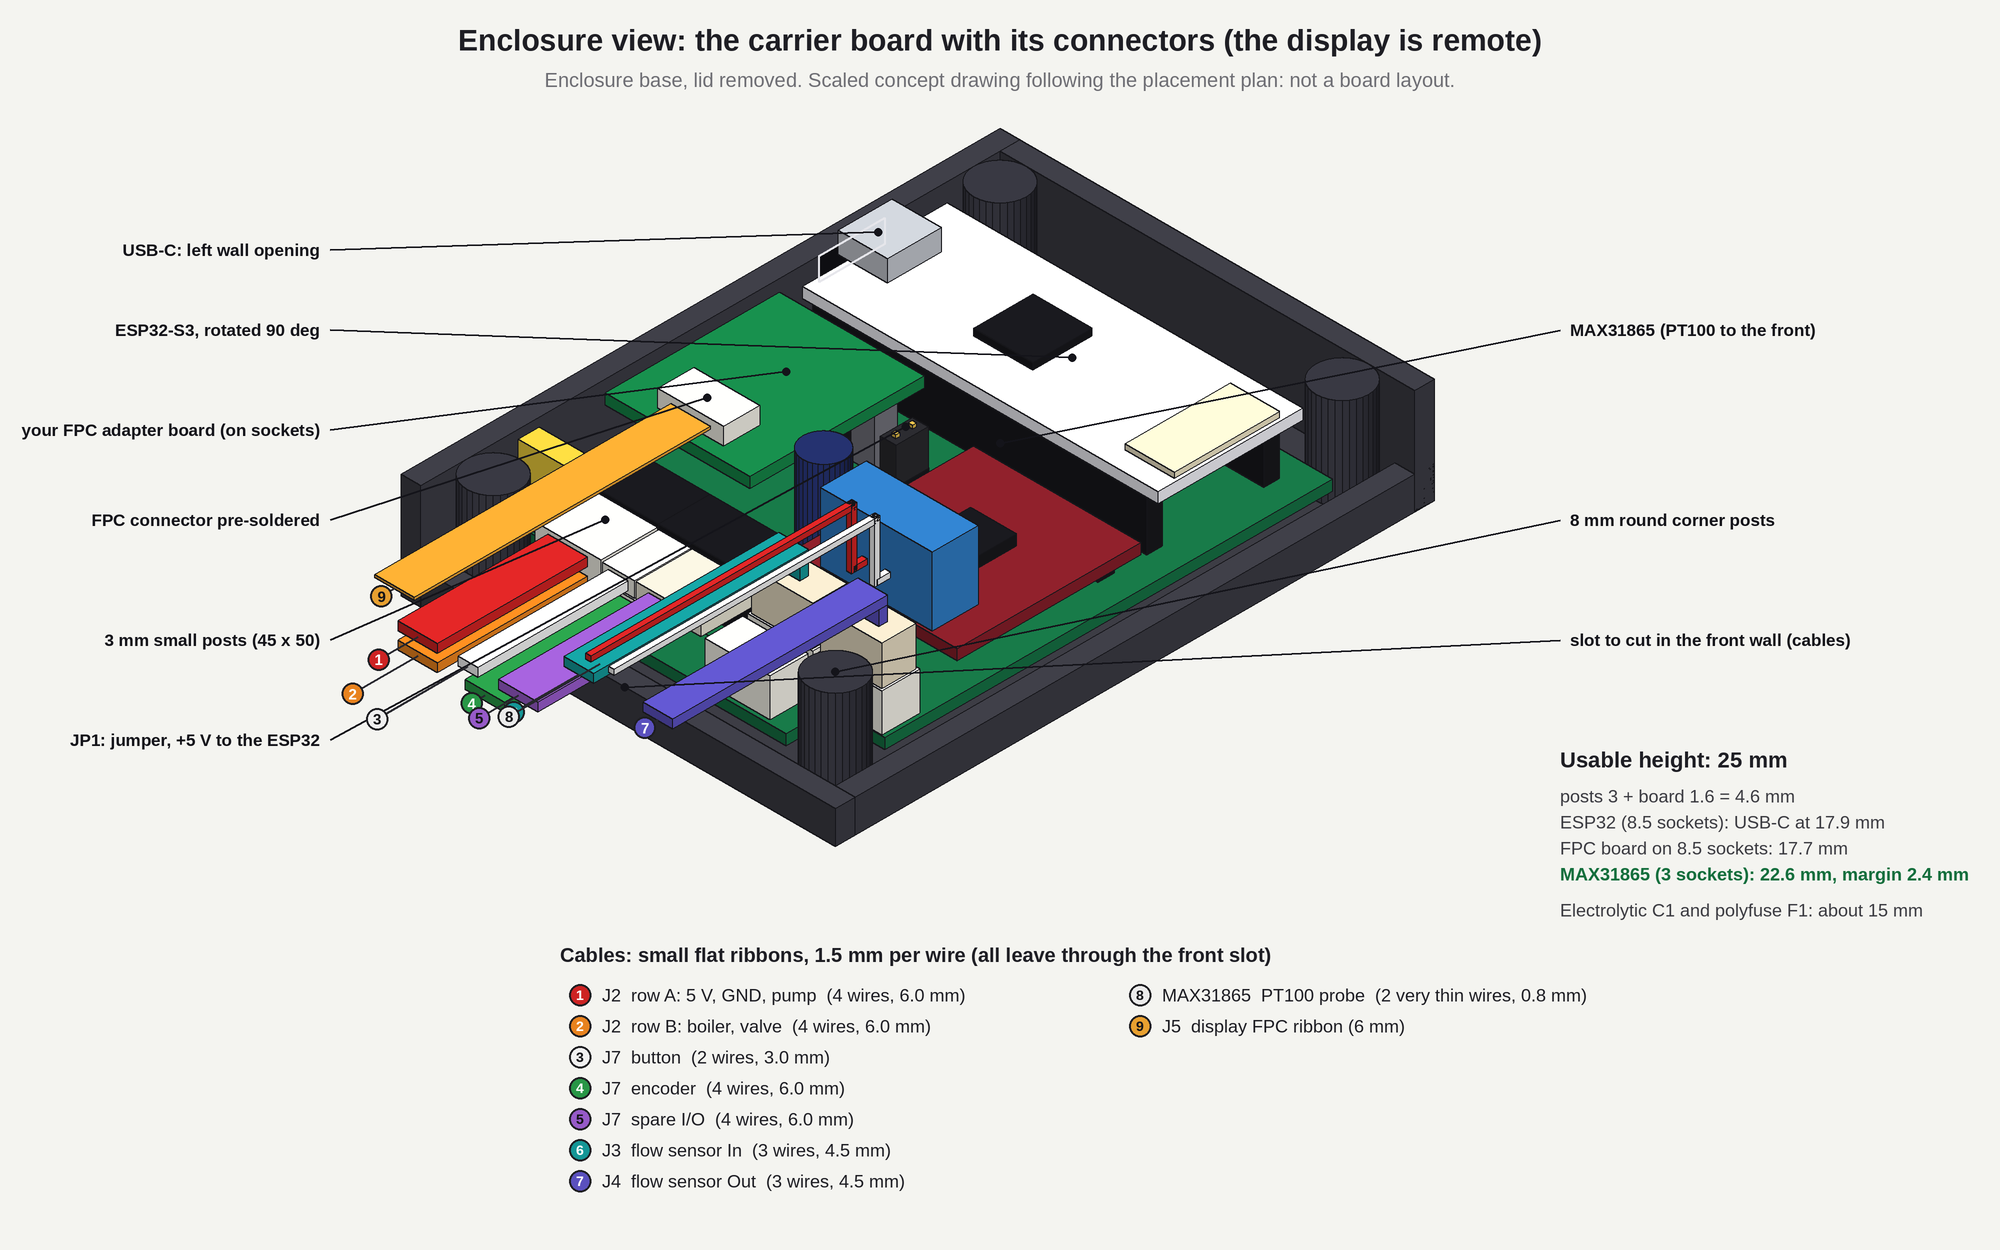
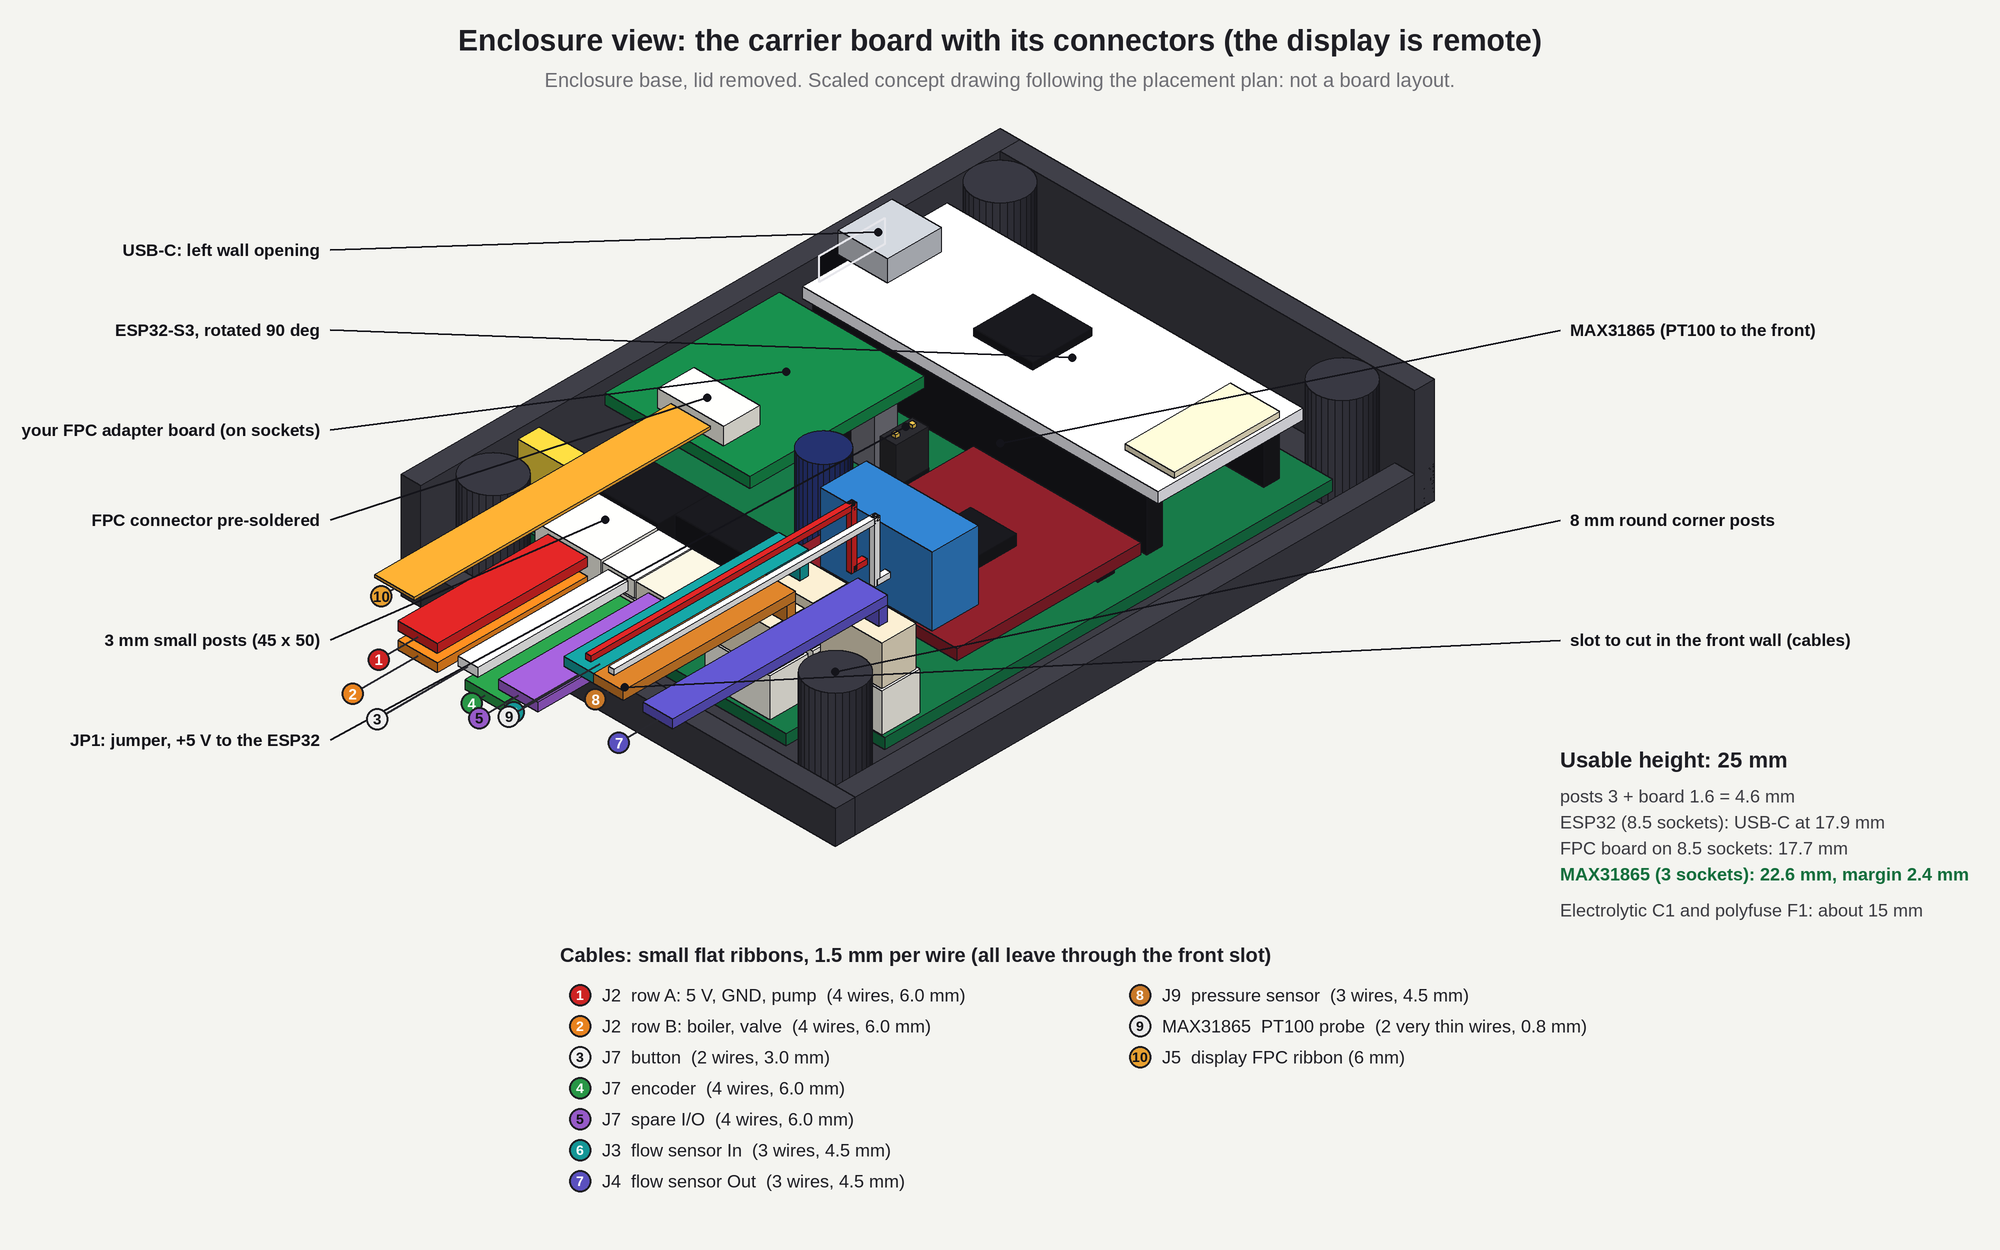
J7 becomes a 2 x 6 header; draw the J9 plug and its 3-wire cable
Claude-Session: https://claude.ai/code/session_012AnZeUFZeKvHXGUDRfJG7Q

Changed region(s): [[0.558, 0.78, 0.775, 0.8736], [0.279, 0.468, 0.403, 0.5928]]

diff --git a/tools/enclosure_overview.py b/tools/enclosure_overview.py
@@ -160,13 +160,11 @@ cuboid(CX0 + 12.2 - 1.27, CY0 + 57.7, top, 10.16, 7.8, 8.4, BLACK)
 cuboid(CX0 + 12.2 - 1.27 + 0.15, CY0 + 65.6, top + 2.9, 10.0, 8.6, 5.1, WHITE)
 for i in range(4):                                                                       # the bare pins of J8 (row C)
     cuboid(CX0 + 12.2 + i * 2.54 - 0.32, CY0 + 65.5, top + 1.27 - 0.32, 0.64, 6.0, 0.64, GOLD)
-# J7: 3 x 6 right-angle header (A: button + spare, B: encoder, C: spare, bare)
-cuboid(CX0 + 22.4 - 1.27, CY0 + 57.7, top, 15.24, 7.8, 8.4, BLACK)
+# J7: 2 x 6 right-angle header (A: button + spare, B: encoder)
+cuboid(CX0 + 22.4 - 1.27, CY0 + 57.7, top, 15.24, 5.3, 8.4, BLACK)
 cuboid(CX0 + 22.4 - 1.27 + 0.15, CY0 + 65.6, top + 2.95, 10.0, 8.6, 2.3, WHITE)
 cuboid(CX0 + 22.4 - 1.27 + 0.15, CY0 + 65.6, top + 5.5, 4.9, 8.6, 2.3, WHITE)
 cuboid(CX0 + 22.4 - 1.27 + 5.23, CY0 + 65.6, top + 5.5, 9.9, 8.6, 2.3, (225, 222, 205))
-for i in range(3):                                                                       # the bare pins of row C (spare)
-    cuboid(CX0 + 22.4 + i * 2.54 - 0.32, CY0 + 65.5, top + 1.27 - 0.32, 0.64, 6.0, 0.64, GOLD)
 # polyfuse, standing diode, electrolytic, 100 nF, and the two JST XH (vertical headers with their plugs)
 cuboid(CX0 + 1.9, CY0 + 64.4, top, 7.2, 3.2, 11.0, (232, 200, 60))
 cuboid(CX0 + 1.2, CY0 + 61.2, top, 2.7, 2.7, 5.2, BLACK)
@@ -177,8 +175,9 @@ for k in range(2):
     cuboid(xb, CY0 + 62.1, top, 9.9, 5.8, 5.8, WHITE)                                     # JST XH header
     cuboid(xb + 0.3, CY0 + 62.4, top + 5.8, 9.3, 5.2, 6.0, CREAM)                         # its plug
 
-# J9: JST XH header (pressure sensor) on the tab under J3, bare: no plug, no cable
+# J9: JST XH header (pressure sensor) on the tab under J3, with its plug (the cable is drawn with the other cables)
 cuboid(CX0 + 42.0 - 4.95, CY0 + 68.6, top, 9.9, 5.8, 5.8, WHITE)
+cuboid(CX0 + 42.0 - 4.95 + 0.3, CY0 + 68.6 + 0.3, top + 5.8, 9.3, 5.2, 6.0, CREAM)           # its plug
 
 # FPC ribbon: leaves the connector towards the front and runs straight out
 Y_END = CY0 + 97.0
@@ -231,7 +230,7 @@ xb, xe, xs = CX0 + 22.4 + 1.27, CX0 + 22.4 + 3.81, CX0 + 22.4 + 8.89
 run_x(xb, Y0, Y_END, top + 6.65, 2, (240, 240, 240)); cable("button", "J7", 2, (240, 240, 240), (xb, Y_END, top + 6.65))
 run_x(xe, Y0, Y_END, top + 4.1, 4, (40, 150, 70)); cable("encoder", "J7", 4, (40, 150, 70), (xe, Y_END, top + 4.1))
 run_x(xs, Y0, Y_END, top + 6.65, 4, (150, 90, 200)); cable("spare I/O", "J7", 4, (150, 90, 200), (xs, Y_END, top + 6.65))
-# J8 (dimmer, row C of J2) and J9 (pressure sensor, JST XH under J3) are provisioned but not plugged: no cable here
+# J8 (dimmer, row C of J2) is provisioned but not plugged: no cable here
 # JST XH: flow sensors (3 wires each), up from the plugs then forward
 c3, c4 = (20, 150, 150), (90, 80, 190)
 riser_x(CX0 + 40.5, CY0 + 65.0, top + 11.8, top + 14.0, 3, c3)
@@ -240,6 +239,11 @@ cable("flow sensor In", "J3", 3, c3, (CX0 + 40.5, Y_END, top + 14.0))
 riser_x(CX0 + 52.5, CY0 + 65.0, top + 11.8, top + 14.0, 3, c4)
 cuboid(CX0 + 52.5 - 2.25, CY0 + 65.0 - 0.65, top + 14.0, 4.5, Y_END - (CY0 + 65.0 - 0.65), TH, c4)
 cable("flow sensor Out", "J4", 3, c4, (CX0 + 52.5, Y_END, top + 14.0))
+# J9 pressure sensor: JST XH under J3, 3 wires up from its plug (x 45, so beside the cable of J3 and clear of J4), then forward to the slot
+c9 = (200, 120, 40)
+riser_x(CX0 + 45.0, CY0 + 71.5, top + 11.8, top + 14.0, 3, c9)
+cuboid(CX0 + 45.0 - 2.25, CY0 + 71.5 - 0.65, top + 14.0, 4.5, Y_END - (CY0 + 71.5 - 0.65), TH, c9)
+cable("pressure sensor", "J9", 3, c9, (CX0 + 45.0, Y_END, top + 14.0))
 # PT100 probe: two very thin wires (0.8 mm) screwed on the two middle terminals of the MAX31865 block (RTD+ and RTD-, 3.5 mm apart),
 # straight out of the block, up in front of it, then forward over J3 and out through the slot
 DW = 0.8

diff --git a/tools/board_schematic.py b/tools/board_schematic.py
@@ -31,7 +31,7 @@ def head(x, y, title, sub=None):
     if sub:
         T(x, y + 28, sub, F(15), GRY, 'lm')
 
-# ---- J2 + J8 : 3 x 4 right-angle header (3 stacked rows), J7 + J9 : 3 x 6
+# ---- J2 + J8 : 3 x 4 right-angle header (3 stacked rows), J7 : 2 x 6
 head(60, 118, "J2 + J8: right-angle 3 x 4 male header", "rows A and B: J2 (one 2 x 4 housing, two ribbons of 4 wires); row C: J8")
 rowA = [("+5 V", RED), ("GND", DK), ("pump +", BRN), ("pump −", BRN)]
 rowB = [("boiler +", ORG), ("boiler −", ORG), ("valve +", YEL), ("valve −", YEL)]
@@ -49,19 +49,15 @@ T(x0 + 370, 288, "row C: J8 pump dimmer, RobotDyn (I2C)", F(14, True), VIO, 'lm'
 T(x0 + 370, 312, "a 2 x 4 housing can be plugged 180 degrees the wrong way:", F(13), GRY, 'lm')
 T(x0 + 370, 330, "mark it, or key the header", F(13), GRY, 'lm')
 
-head(60, 366, "J7: right-angle 3 x 6 male header (row C spare)")
+head(60, 366, "J7: right-angle 2 x 6 male header")
 j7a = [("button", (90, 90, 96)), ("GND", DK), ("+5 V", RED), ("IN 38", VIO), ("OUT 39", VIO), ("GND", DK)]
 j7b = [("GA", GRN), ("GB", GRN), ("+5 V", RED), ("GND", DK)]
-j7c = [("spare", (150, 150, 156))] * 3
 for i, (lab, col) in enumerate(j7a):
     pin(60 + i * 88, 396, lab, col, 14)
 for i, (lab, col) in enumerate(j7b):
     pin(60 + i * 88, 442, lab, col, 14)
-for i, (lab, col) in enumerate(j7c):
-    pin(60 + i * 88, 488, lab, col, 14)
 T(620, 418, "row A: button (2) + spare I/O (4)", F(14), GRY, 'lm')
 T(620, 464, "row B: encoder (module order)", F(14), GRY, 'lm')
-T(620, 510, "row C: spare, bare", F(14), GRY, 'lm')
 
 # ---- J3 / J4
 head(60, 628, "J3, J4: JST XH 3-pin, flow sensors In and Out", "sensor wire order: often red / yellow / black: check your cable")
@@ -70,9 +66,9 @@ for k, (name, x) in enumerate([("J3  flow In", 60), ("J4  flow Out", 480)]):
     for i, (lab, col) in enumerate([("+5 V", RED), ("signal", BLU), ("GND", DK)]):
         pin(x + i * 88, 710, lab, col, 14)
 # J9: same JST XH order, pressure sensor (on the tab under J3), drawn under J7 where there is room
-T(60, 552, "J9  pressure sensor (JST XH 3-pin, same order as J3 / J4)", F(15, True), INK, 'lm')
+T(60, 530, "J9  pressure sensor (JST XH 3-pin, same order as J3 / J4)", F(15, True), INK, 'lm')
 for i, (lab, col) in enumerate([("+5 V", RED), ("signal", BLU), ("GND", DK)]):
-    pin(60 + i * 88, 566, lab, col, 14)
+    pin(60 + i * 88, 546, lab, col, 14)
 
 # ---- J5
 head(60, 790, "J5: 2 x 4 socket for your FPC adapter board (8 pins)", "your board's numbering: top row 1, 3, 5, 7; bottom row 2, 4, 6, 8")

diff --git a/tools/board_placement.py b/tools/board_placement.py
@@ -176,14 +176,12 @@ for c_, lab in enumerate(["+5V", "GND", "P+", "P−"]):
     text(d, X(12.2 + c_ * 2.54), Y(ROWS[0]) - 1.9 * K, lab, 7, SILK, True)
 for c_, lab in enumerate(["5V", "GND", "SDA", "SCL"]):
     text(d, X(12.2 + c_ * 2.54), Y(ROWS[2]) + 1.9 * K, lab, 7, SILK, True)
-# J7 + J9: 3 x 6 right-angle header. Row A: button (2) + spare I/O (4); row B: encoder (GA, GB, VCC, GND); row C: spare, bare (the pressure sensor is J9, a JST XH under J3).
+# J7: 2 x 6 right-angle header. Row A: button (2) + spare I/O (4); row B: encoder (GA, GB, VCC, GND). (The pressure sensor is J9, a JST XH under J3.)
 for c_ in range(6):
     tpad(22.4 + c_ * 2.54, ROWS[0], square=(c_ == 0), ring=1.7, drill=1.0)
 for c_ in range(4):
     tpad(22.4 + c_ * 2.54, ROWS[1], ring=1.7, drill=1.0)
-for c_ in range(3):
-    tpad(22.4 + c_ * 2.54, ROWS[2], ring=1.7, drill=1.0)
-rect(d, X(22.4) - 1.4 * K, Y(ROWS[0]) - 1.4 * K, X(22.4 + 5 * 2.54) + 1.4 * K, Y(ROWS[2]) + 1.4 * K, outline=SILK + (255,), width=2)
+rect(d, X(22.4) - 1.4 * K, Y(ROWS[0]) - 1.4 * K, X(22.4 + 5 * 2.54) + 1.4 * K, Y(ROWS[1]) + 1.4 * K, outline=SILK + (255,), width=2)
 silk(33.2, 55.3, "J7 (A, B)", 9)
 for c_, lab in enumerate(["BT", "GND", "5V", "IN", "OUT", "GND"]):
     text(d, X(22.4 + c_ * 2.54), Y(ROWS[0]) - 1.9 * K, lab, 7, SILK, True)
@@ -275,7 +273,7 @@ comp = [
     "J2  right-angle 3 x 4 header, rows A, B: 5 V supply and SSRs  ·  row C: J8, pump dimmer (I2C)",
     "J3, J4  JST XH 3-pin: flow sensors In and Out  ·  J9  JST XH 3-pin: pressure sensor (on the tab, under J3)",
     "J5  2 x 4 socket: FPC adapter board",
-    "J7  right-angle 3 x 6 header, rows A, B: button, encoder, spare I/O  ·  row C: spare, bare",
+    "J7  right-angle 2 x 6 header, rows A, B: button, encoder, spare I/O",
     "JP1  1 x 2 header + jumper: +5 V to the ESP32 (removed: ESP32 on USB only)",
     "Q1 to Q3  SSR drive ; Q4  backlight (optional)",
     "R1 to R4  1 kΩ  ·  R5 to R8  10 kΩ  ·  R9, R10, R17, R18  5 V input dividers (GA, GB, IN)",

diff --git a/docs/carrier_spec.md b/docs/carrier_spec.md
@@ -10,12 +10,12 @@ All **through-hole** parts (no SMD soldering). Related files: `images/board_plac
 - Usable depth **25 mm**: posts 3 + board 1.6 = 4.6 mm; ESP32 on 8.5 mm sockets (USB-C at 17.9 mm); FPC adapter board on 8.5 mm sockets (17.7 mm); MAX31865 on low 3 mm sockets (22.6 mm, 2.4 mm margin).
 - **ESP32-S3 rotated 90 degrees** (long side across the board, at the back, y 3 to 25 mm): **USB-C towards the left wall**, with an opening in that wall at y 9 to 19 mm (the connector is then far from the 8 mm corner posts). The antenna end is on the right (x 48.5 to 56.5 mm).
 - **Under the ESP32 (between the two socket rows, 8.5 mm clearance):** vertical axial resistors R1 to R10, then Q1 to Q4 on the right; Q5 (spare output) at the left, next to the USB end. The two small standoffs at the back (6.5, 9) and (51.5, 9) are under the ESP32; the one on the right is under the antenna, so use a **non-plated hole with no copper ring** there.
-- **Connector rows:** J8 is the lowest row of the J2 header; the lowest row of the J7 header is a spare row, bare (3-row right-angle strips; each row has its own Dupont housing, rows are 2.54 mm apart vertically, the housings are not keyed: mind the order). J8 and J9 stay bare for now. The corridor between the FPC board and the MAX31865 holds JP1, C1 and C2.
+- **Connector rows:** J8 is the lowest row of the J2 header; J7 is a 2-row right-angle header (J2 + J8 use a 3-row strip; each row has its own Dupont housing, rows are 2.54 mm apart vertically, the housings are not keyed: mind the order). J8 stays bare for now; J9 has its plug and cable. The corridor between the FPC board and the MAX31865 holds JP1, C1 and C2.
 - **Below the ESP32, side by side:** the FPC adapter board on the **left** (x 1.5 to 23.5 mm, connector towards the front, flow-input parts R11 to R16 and C3, C4 under it), the MAX31865 on the **right** (x 31 to 56.4 mm, rotated 180 degrees: header on its rear edge, pin 1 VIN on the right, PT100 terminal block facing the front), and a corridor between them (x 23.5 to 31 mm) holding J8, J9, C1 and C2.
 - **Front connector row:** right-angle headers with their Dupont housings need about **9 mm in front of the pads** (keep-out, nothing else there); J2 and J7 are on the 42 x 7 mm tab, the vertical JST XH J3 and J4 at the front right, F1 and D1 in the front-left corner. A cable slot is needed in the front wall (housings end about 1 mm from it).
 - **All cables leave through the front** (J2, J7, J3, J4, the PT100 wires and the display ribbon). Only the USB-C cable leaves through the left wall.
 - **Display ribbon:** the FPC adapter board is rotated so that its connector faces the front: the flat ribbon (about 6 mm wide, at about 15.5 mm) runs **straight to the front** between x 7 and 18 mm, above J2's housings (10.5 mm) and F1; no tall part (JST XH plugs reach about 16 mm) may sit in that column. Nothing crosses the MAX31865 any more.
-- **Cables:** small flat ribbons (Dupont wires side by side), about **1.5 mm per wire** (4 wires = 6 mm, 3 wires = 4.5 mm, 2 wires = 3 mm), 1.3 mm thick. In the 3D view the cables are numbered 1 to 9 (J2 x2, J7 x3, J3, J4, PT100 probe, display ribbon); J3 / J4 leave their plugs upwards at about 12 mm and the two thin PT100 wires (0.8 mm, on the two middle terminals of the MAX31865 block) at about 15 mm; all go through the front slot. **J8 (pump dimmer) and J9 (pressure sensor) are provisioned on the board but not plugged for now**: they are shown as bare headers, and their cables (4 wires = 6 mm, 3 wires = 4.5 mm) are not counted in the slot width.
+- **Cables:** small flat ribbons (Dupont wires side by side), about **1.5 mm per wire** (4 wires = 6 mm, 3 wires = 4.5 mm, 2 wires = 3 mm), 1.3 mm thick. In the 3D view the cables are numbered 1 to 10 (J2 x2, J7 x3, J3, J4, J9, PT100 probe, display ribbon); J3 / J4 leave their plugs upwards at about 12 mm and the two thin PT100 wires (0.8 mm, on the two middle terminals of the MAX31865 block) at about 15 mm; all go through the front slot. J9 (pressure sensor, 3 wires = 4.5 mm) leaves its plug upwards at about 14 mm, like J3 / J4. **J8 (pump dimmer) is provisioned on the board but not plugged for now**: it is shown as a bare header, and its cable (4 wires = 6 mm) is not counted in the slot width.
 - The spare-I/O resistors R17 to R21 are flat resistors under the MAX31865 (3 mm clearance, enough for axial 1/4 W parts).
 - No copper and no component under the ESP32 antenna (the end of the ESP32 board opposite the USB-C).
 
@@ -26,7 +26,7 @@ All **through-hole** parts (no SMD soldering). Related files: `images/board_plac
 | J3, J4 | JST XH 3-pin, vertical, rotated (real pitch 2.5 mm) | flow sensors In and Out |
 | J5 | 2 x 4 female socket | FPC adapter board (8 pins, ribbon to the remote display) |
 | J6 | 1 x 8 female socket (low, 3 mm) | MAX31865 module |
-| J7 | rows A and B of a **3 x 6 right-angle male header** | button + encoder (encoder powered from 5 V) + 4 spare I/O pins (+5 V, level-adapted input, level-adapted output, GND) |
+| J7 | a **2 x 6 right-angle male header** (rows A and B) | button + encoder (encoder powered from 5 V) + 4 spare I/O pins (+5 V, level-adapted input, level-adapted output, GND) |
 | J8 | row C (the lowest) of the J2 header, 4 pins | RobotDyn 4 A pump dimmer, **I2C** (powered from 5 V, through an I2C level shifter) |
 | J9 | JST XH 3-pin, vertical, on the tab right under J3 (centre x 42, y 71.5) | pressure sensor 0.5 to 4.5 V, 0 to 12 bar (powered from 5 V) |
 | JP1 | 1 x 2 male header + shunt jumper | +5 V board to the 5V pin of the ESP32 (see Circuits) |
@@ -40,7 +40,7 @@ All **through-hole** parts (no SMD soldering). Related files: `images/board_plac
 
 **One 2 x 4 Dupont housing**, two ribbons of 4 wires (one per row): ribbon 1 = 5 V supply and pump SSR, ribbon 2 = boiler SSR and valve SSR. Warning: an unkeyed 2 x 4 housing can be plugged 180 degrees the wrong way round (+5 V would land on the valve SSR "−" input and so on). Use a **keyed (shrouded) 2 x 4 IDC-style header** with its notch, or at least mark the housing and the header.
 
-### J7 (rows A and B of the 3 x 6 header, right-angle: stacked rows of Dupont housings; row C = spare, bare)
+### J7 (2 x 6 right-angle header: stacked rows of Dupont housings)
 | | 1 | 2 | 3 | 4 | 5 | 6 |
 |---|---|---|---|---|---|---|
 | Row A (upper) | button (GPIO 6) | GND | **+5 V** | **IN (GPIO 38)** | **OUT (GPIO 39)** | **GND** |
@@ -129,7 +129,7 @@ Silkscreen read on the photo, left column from the USB-C end: GND, 5V, G48, BOOT
 | 2 | 1 x 20 female sockets, 8.5 mm | 1 € |
 | 1 | MAX31865 module (owned) + low 1 x 8 socket | 0.3 € |
 | 1 | 8-pin FPC board (owned) + 2 x 4 male header + 2 x 4 female socket | 0.5 € |
-| 1 | 3-row right-angle 2.54 mm male header strip ("courbé" 3 x 40, e.g. Funduino, about 1.7 €): cut one 3 x 4 (J2 + J8) and one 3 x 6 (J7, row C spare) | 1.7 € |
+| 1 | 3-row right-angle 2.54 mm male header strip ("courbé" 3 x 40, e.g. Funduino, about 1.7 €): cut one 3 x 4 (J2 + J8); the 2 x 6 of J7 is cut from the same strip, third row removed | 1.7 € |
 | 1 | 1 x 2 male header + shunt jumper (JP1) | 0.2 € |
 | 3 | JST XH 3-pin headers (J3, J4, J9) | 0.7 € |
 | 4 | 2N2222A transistors (3 SSRs + spare output; backlight stage optional) | 0.6 € |

diff --git a/README.md b/README.md
@@ -24,7 +24,7 @@ Status: **working design, nothing has been manufactured.** Placement is to scale
 - Through-hole parts only (no SMD soldering).
 - ESP32-S3 (rotated 90 degrees, USB-C to the left) and MAX31865 module on sockets; FPC adapter board (remote display) on a 2 x 4 socket, its ribbon going straight to the front.
 - SSRs are kept, driven by 2N2222A transistors from the external 5 V supply.
-- Connectors: J2 2 x 4 (5 V + 3 SSRs), J7 1 x 6 (button + encoder, 5 V), J8 1 x 4 (pump dimmer, I2C), 3 x JST XH 3-pin (J3, J4 flow sensors In and Out; J9 pressure sensor, on the tab under J3).
+- Connectors: J2 2 x 4 (5 V + 3 SSRs), J7 2 x 6 right-angle (button + encoder, 5 V, spare I/O), J8 1 x 4 (pump dimmer, I2C), 3 x JST XH 3-pin (J3, J4 flow sensors In and Out; J9 pressure sensor, on the tab under J3).
 
 ## To confirm before manufacturing
 See the end of `docs/carrier_spec.md`.
